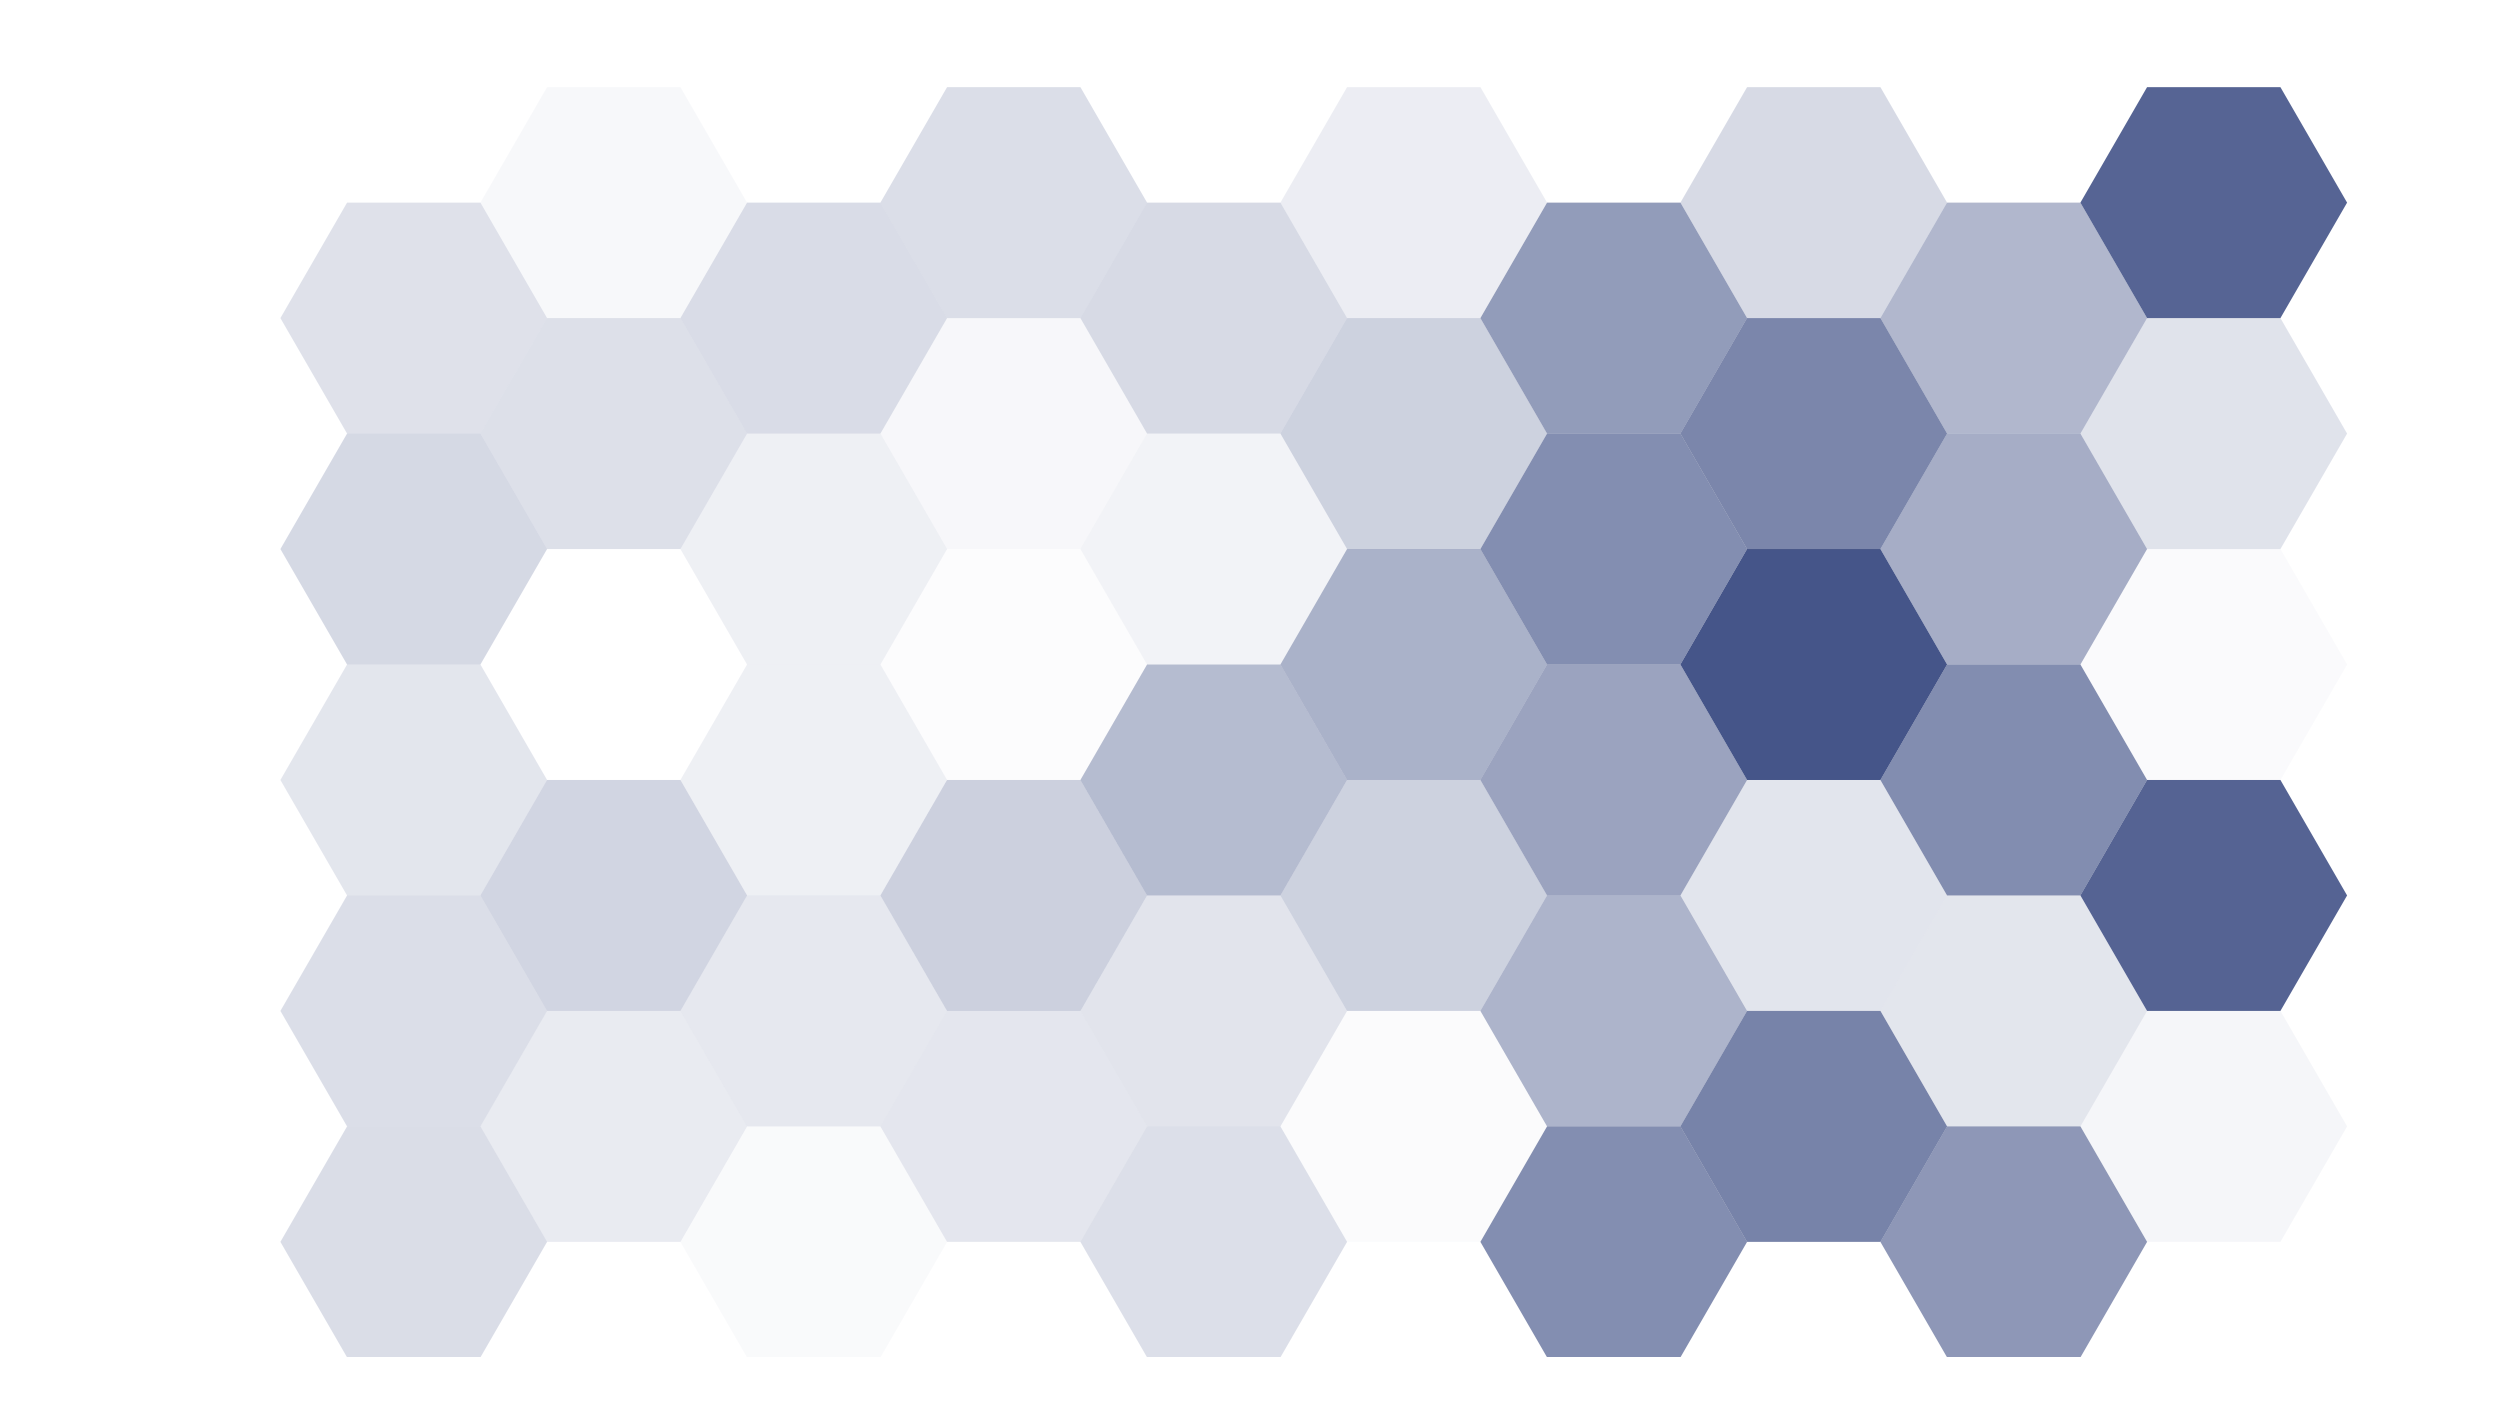
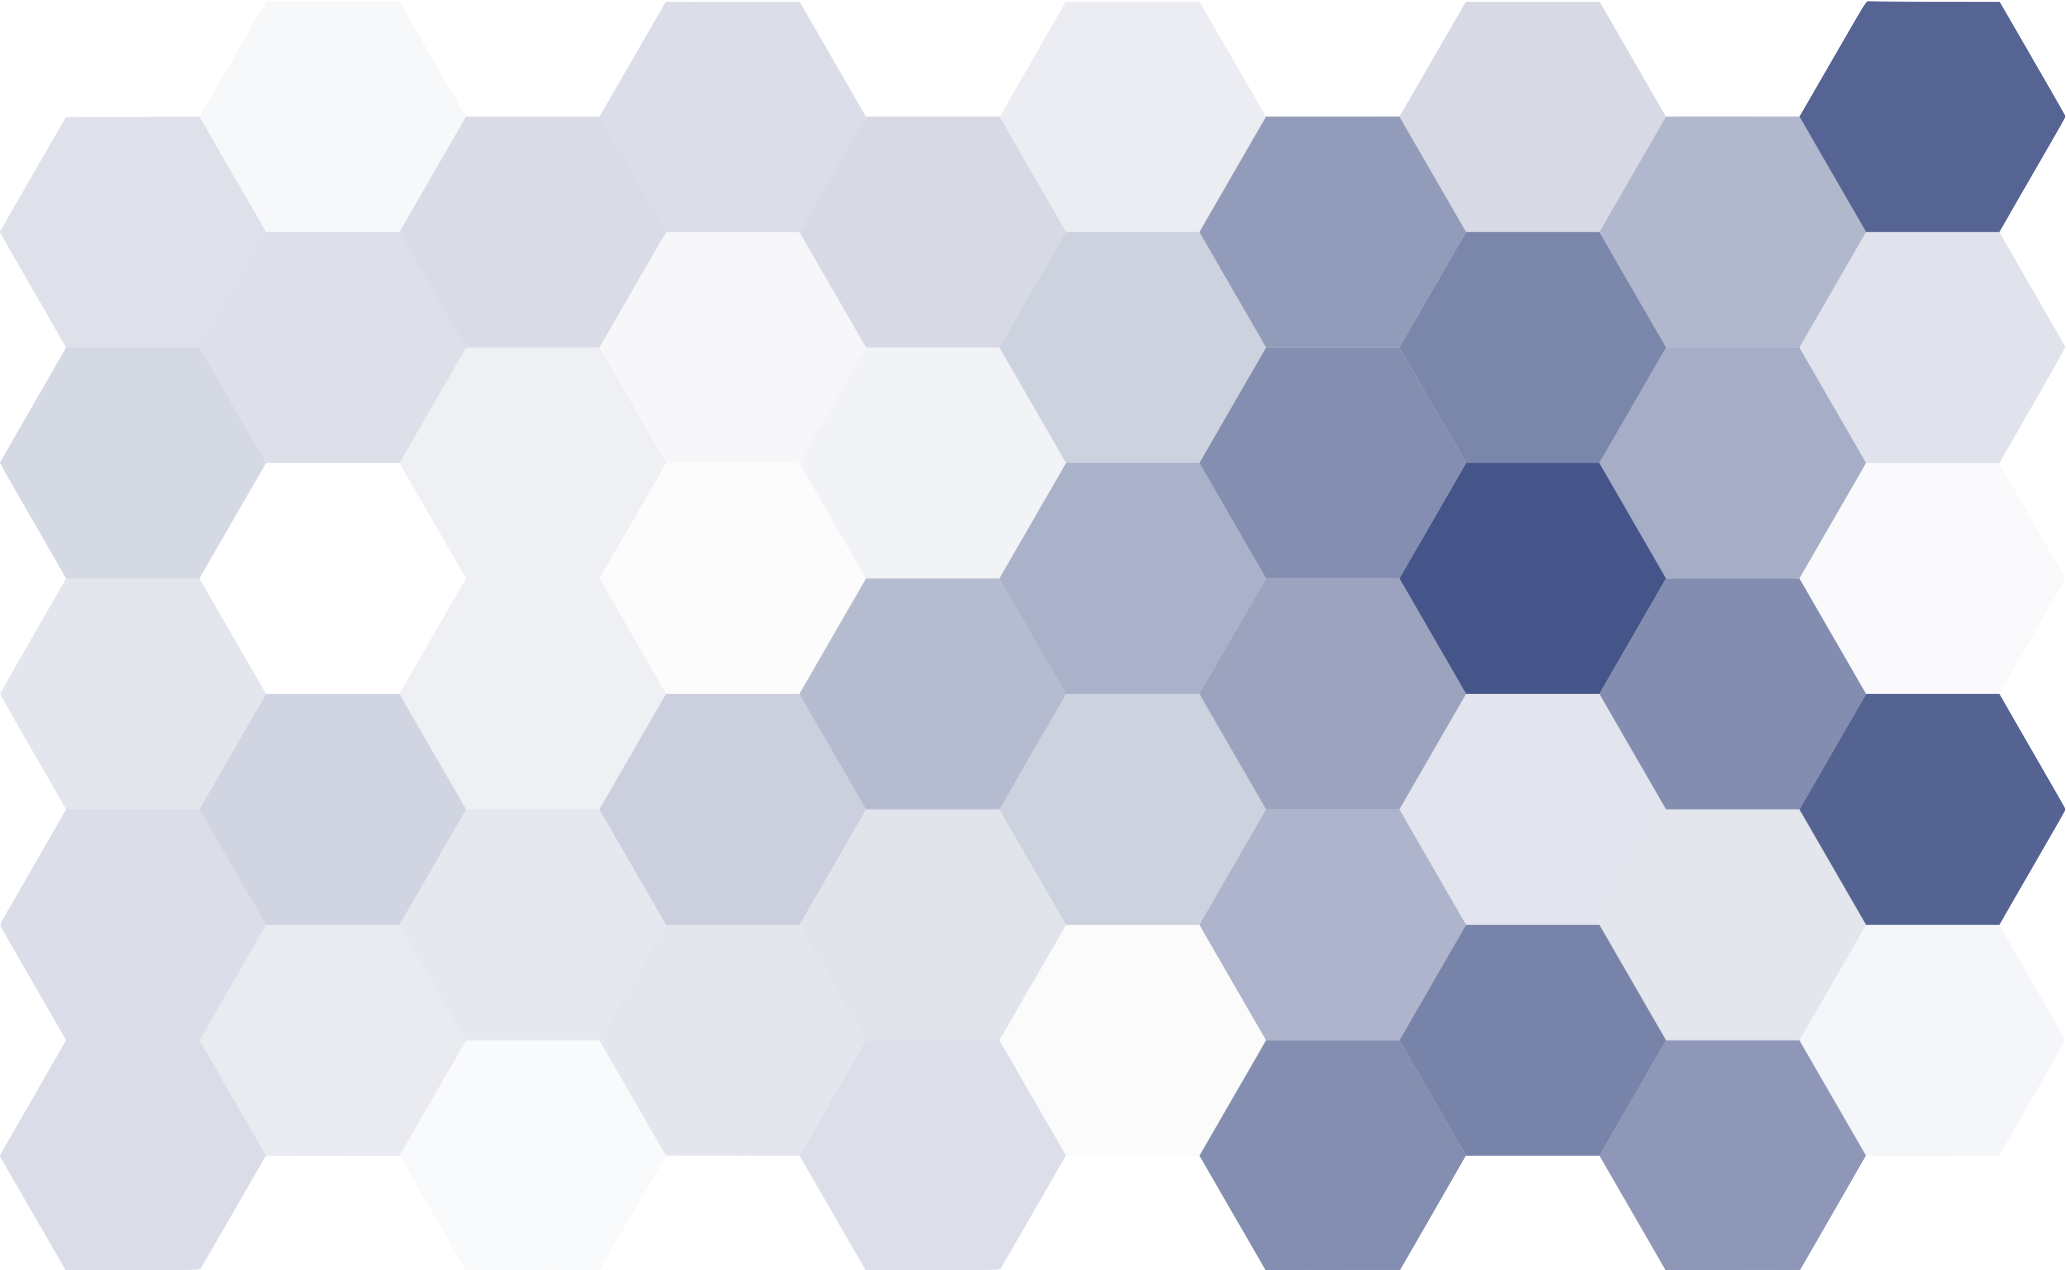
back_ground2.png editted &  added

diff --git a/style.scss b/style.scss
@@ -157,7 +157,7 @@ img {
 
 .masthead {
   padding: 10px 0;
-  background:#D7DAE4 url("../images/web_back_ground.png");
+  background:#D7DAE4 url("../images/back_ground2.png");
   background-size: cover;
   height : 120px;
   border-bottom: 2px solid $lightGray;
